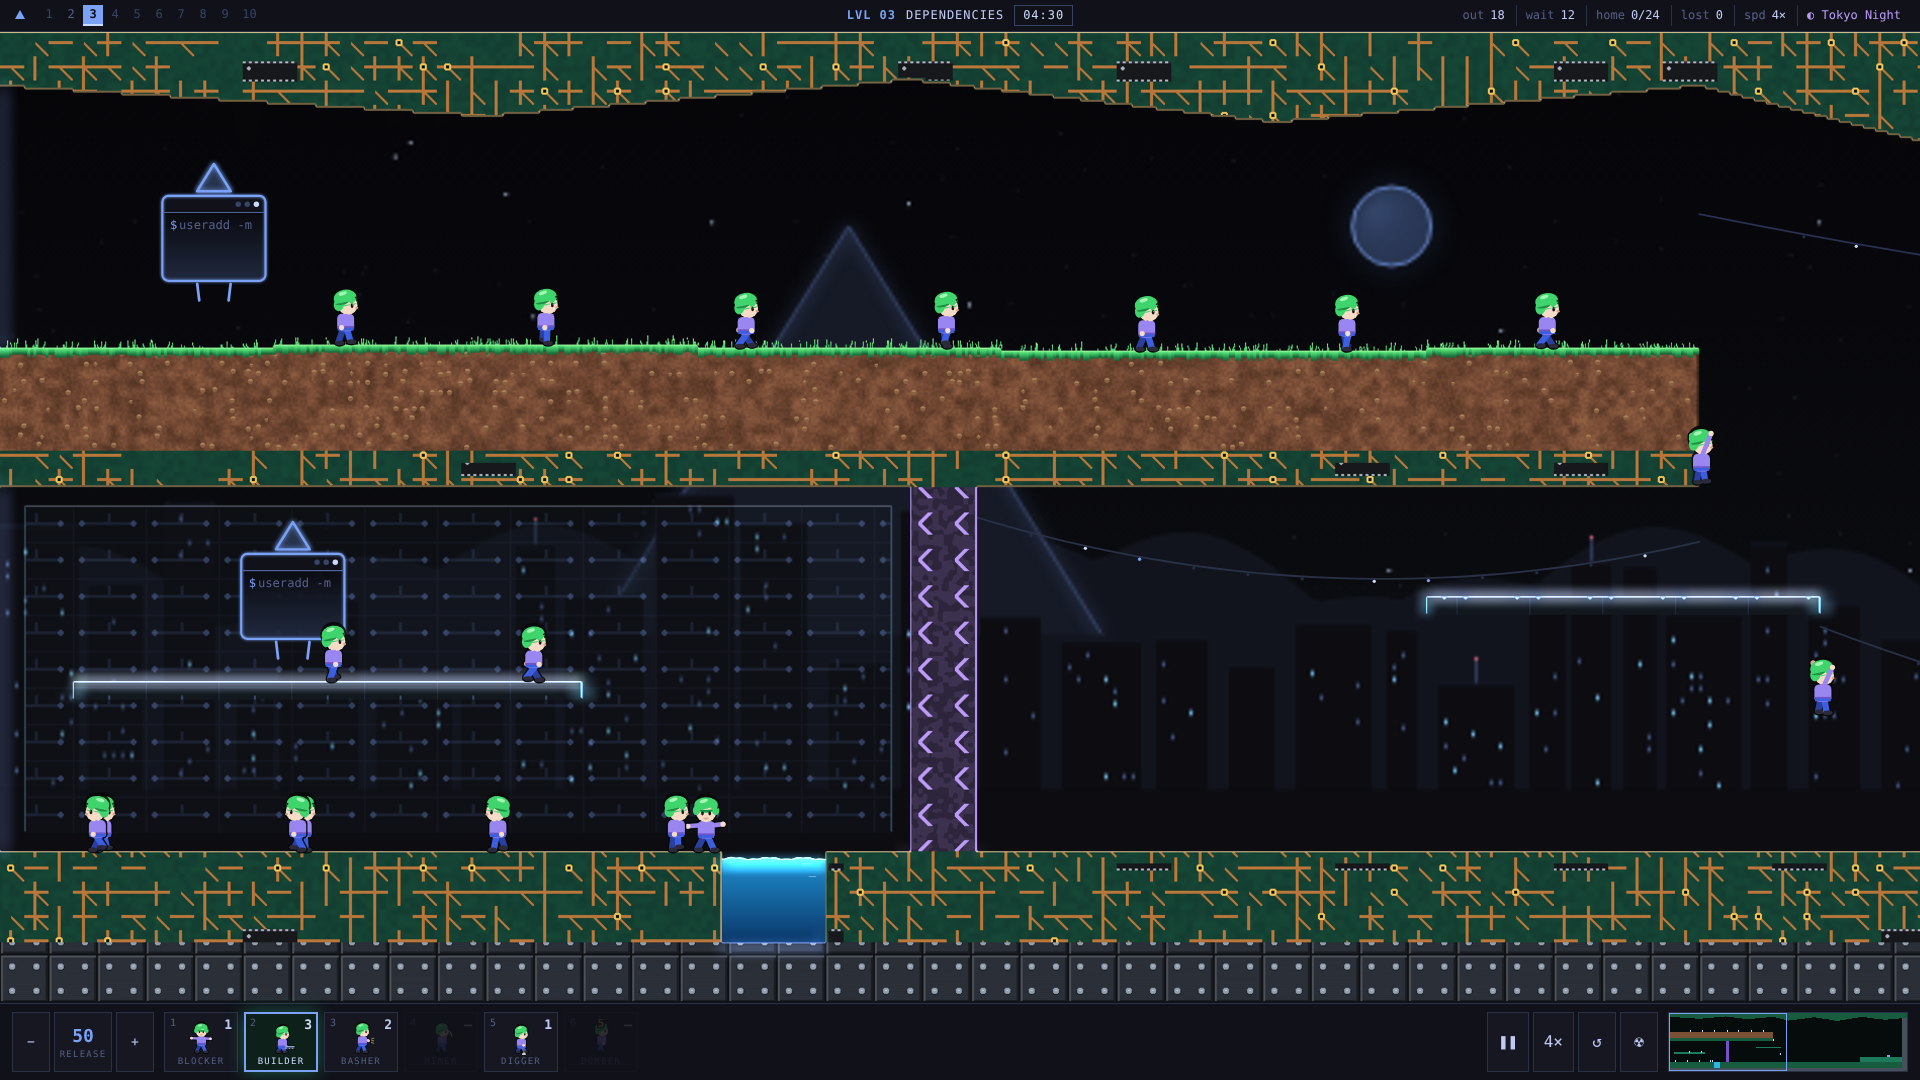
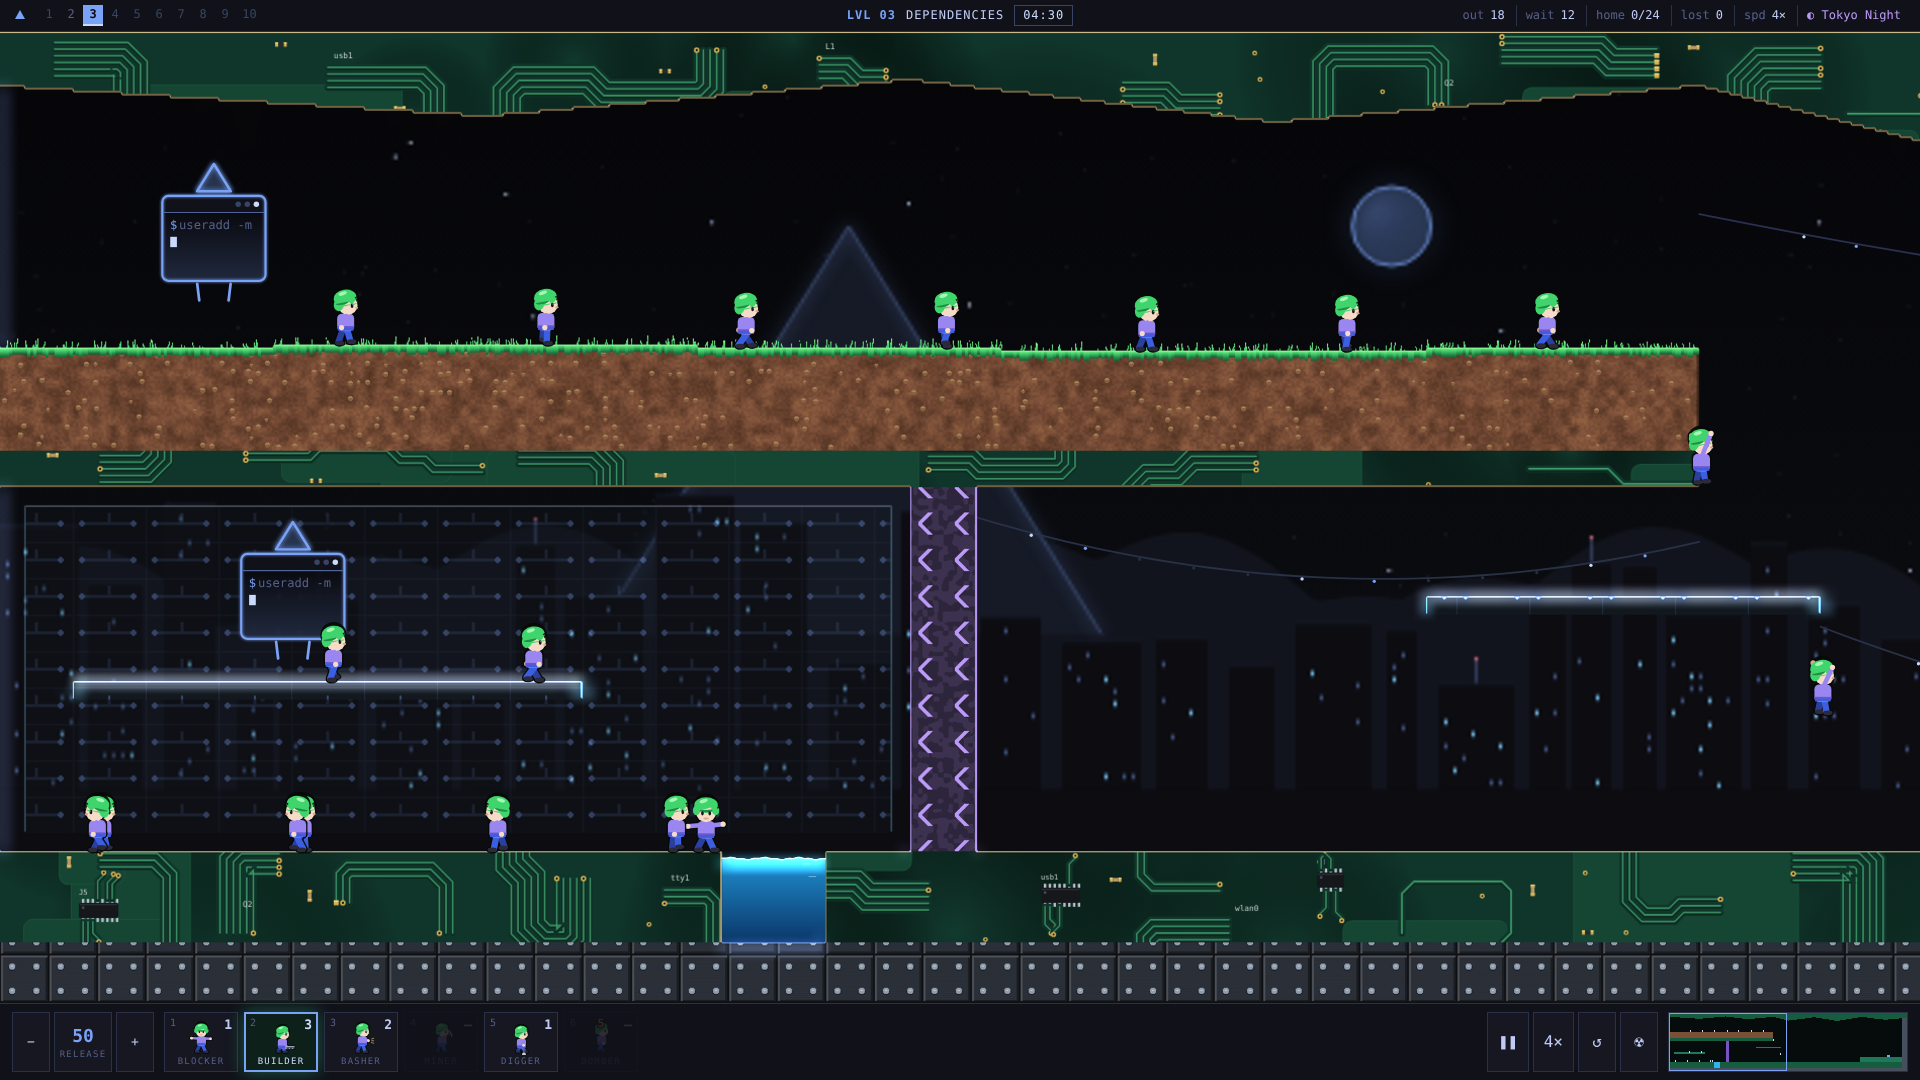
Redraw breakable rock as a routed circuit board
Buses of parallel traces with 45-degree bends, copper pour with clearance,
chips with fan-out, gold vias and pads, passives and silkscreen labels.
Generated once per level (js/gfx/board.js) and sampled by the terrain renderer.

Claude-Session: https://claude.ai/code/session_012AFs84dzLvUPsB991GyuNY

diff --git a/js/gfx/board.js b/js/gfx/board.js
@@ -1,0 +1,206 @@
+/* Omarchy Lemmings — circuit-board artwork for breakable "rock".
+
+   Instead of per-pixel noise, the board is *routed* once per level, like a
+   real PCB, and the terrain renderer samples it wherever there is rock:
+     - parallel buses of traces with 45° chamfered bends and jogs,
+     - traces a lighter green under the solder mask (as on real boards),
+     - gold pads and vias where traces end,
+     - chips (SOIC / QFP) with silver pins and fan-out traces,
+     - small passives and white silkscreen labels (eth0, tty1, /dev/sda…).
+   Everything is deterministic for a given level. */
+"use strict";
+var OL = globalThis.OL || (globalThis.OL = {});
+
+(function () {
+  const M = OL.M;
+  const DIRS = [[1, 0], [1, 1], [0, 1], [-1, 1], [-1, 0], [-1, -1], [0, -1], [1, -1]];   // 8 headings, 45° apart
+  const LABELS = ["eth0", "tty1", "sda1", "U1", "U7", "R12", "C3", "/dev/sda", "wlan0", "gpio", "i2c-1", "nvme0", "lo", "kvm", "usb1", "pci0", "D4", "Q2", "L1", "J5"];
+
+  function rng(seed) {                                 // mulberry32
+    let a = seed >>> 0;
+    return () => { a |= 0; a = (a + 0x6d2b79f5) | 0; let t = Math.imul(a ^ (a >>> 15), 1 | a); t = (t + Math.imul(t ^ (t >>> 7), 61 | t)) ^ t; return ((t ^ (t >>> 14)) >>> 0) / 4294967296; };
+  }
+
+  function buildBoard(doc, terrain, S, T) {
+    const W = terrain.w, H = terrain.h, m = terrain.m;
+    const cv = doc.createElement("canvas");
+    cv.width = W * S; cv.height = H * S;
+    const g = cv.getContext("2d");
+    g.scale(S, S);
+    const R = rng(W * 7919 + H * 104729 + 17);
+    const isRock = (x, y) => x >= 0 && y >= 0 && x < W && y < H && m[(y | 0) * W + (x | 0)] === M.ROCK;
+    const mix = OL.mix;
+    const COL = {
+      mask: mix("#0d3f2d", T.bg, 0.25),
+      mask2: mix("#104a35", T.bg, 0.25),
+      trace: mix("#2b8a58", T.bg, 0.15),
+      traceHi: mix("#58c28a", T.bg, 0.1),
+      traceLo: mix("#08261b", T.bg, 0.2),
+      gold: "#d8b04f", goldHi: "#f3d98a", hole: "#0a1410",
+      chip: "#15171b", chipHi: "#2a2e35", pin: "#b9c2cc",
+      silk: "rgba(225,235,228,0.82)",
+    };
+
+    /* solder mask with soft large-scale variation */
+    g.fillStyle = COL.mask; g.fillRect(0, 0, W, H);
+    for (let i = 0; i < (W * H) / 6000; i++) {
+      const x = R() * W, y = R() * H, r = 20 + R() * 60;
+      const rg = g.createRadialGradient(x, y, 0, x, y, r);
+      rg.addColorStop(0, mix(COL.mask2, "#000000", R() * 0.1)); rg.addColorStop(1, "rgba(0,0,0,0)");
+      g.fillStyle = rg; g.fillRect(x - r, y - r, r * 2, r * 2);
+    }
+
+    /* copper pour: lighter islands of ground plane */
+    for (let i = 0; i < (W * H) / 4000; i++) {
+      const x = R() * W, y = R() * H, w = 20 + R() * 70, h = 10 + R() * 40;
+      g.fillStyle = mix(COL.mask, COL.trace, 0.22);
+      g.beginPath(); g.roundRect(x, y, w, h, 3); g.fill();
+      g.strokeStyle = mix(COL.mask, COL.trace, 0.4); g.lineWidth = 0.35;
+      g.beginPath(); g.roundRect(x, y, w, h, 3); g.stroke();
+    }
+
+    /* occupancy on a 3 px grid so buses don't cross */
+    const GS = 3, GW = Math.ceil(W / GS), GH = Math.ceil(H / GS);
+    const occ = new Uint8Array(GW * GH);
+    const cellsFree = (pts, pad) => {
+      for (const [x, y] of pts) {
+        for (let dy = -pad; dy <= pad; dy += GS) for (let dx = -pad; dx <= pad; dx += GS) {
+          const cx = Math.floor((x + dx) / GS), cy = Math.floor((y + dy) / GS);
+          if (cx < 0 || cy < 0 || cx >= GW || cy >= GH || occ[cy * GW + cx]) return false;
+        }
+      }
+      return true;
+    };
+    const claim = (pts, pad) => {
+      for (const [x, y] of pts) for (let dy = -pad; dy <= pad; dy += GS) for (let dx = -pad; dx <= pad; dx += GS) {
+        const cx = Math.floor((x + dx) / GS), cy = Math.floor((y + dy) / GS);
+        if (cx >= 0 && cy >= 0 && cx < GW && cy < GH) occ[cy * GW + cx] = 1;
+      }
+    };
+    const rockFrac = (pts) => { let n = 0; for (const [x, y] of pts) if (isRock(x, y)) n++; return n / Math.max(1, pts.length); };
+    const sample = (poly) => {                       // points every ~1.5 px along a polyline
+      const out = [];
+      for (let i = 0; i + 1 < poly.length; i++) {
+        const [ax, ay] = poly[i], [bx, by] = poly[i + 1];
+        const n = Math.max(1, Math.ceil(Math.hypot(bx - ax, by - ay) / 1.5));
+        for (let k = 0; k <= n; k++) out.push([ax + ((bx - ax) * k) / n, ay + ((by - ay) * k) / n]);
+      }
+      return out;
+    };
+    /* offset a polyline sideways with mitred corners */
+    const offset = (poly, d) => poly.map((p, i) => {
+      const a = poly[Math.max(0, i - 1)], b = poly[Math.min(poly.length - 1, i + 1)];
+      const n1 = i > 0 ? norm(poly[i - 1], p) : norm(p, b), n2 = i < poly.length - 1 ? norm(p, b) : n1;
+      let nx = n1[0] + n2[0], ny = n1[1] + n2[1]; const l = Math.hypot(nx, ny) || 1; nx /= l; ny /= l;
+      const cos = nx * n1[0] + ny * n1[1] || 1;
+      void a;
+      return [p[0] + (nx * d) / cos, p[1] + (ny * d) / cos];
+    });
+    function norm(a, b) { const dx = b[0] - a[0], dy = b[1] - a[1], l = Math.hypot(dx, dy) || 1; return [-dy / l, dx / l]; }
+
+    const drawTrace = (poly, w) => {
+      g.lineJoin = "miter"; g.lineCap = "round";
+      g.strokeStyle = COL.mask; g.lineWidth = w + 1.6;                       // clearance cut into any copper pour
+      g.beginPath(); poly.forEach((p, i) => (i ? g.lineTo(p[0], p[1]) : g.moveTo(p[0], p[1]))); g.stroke();
+      g.strokeStyle = COL.traceLo; g.lineWidth = w + 0.5;
+      g.beginPath(); poly.forEach((p, i) => (i ? g.lineTo(p[0], p[1] + 0.25) : g.moveTo(p[0], p[1] + 0.25))); g.stroke();
+      g.strokeStyle = COL.trace; g.lineWidth = w;
+      g.beginPath(); poly.forEach((p, i) => (i ? g.lineTo(p[0], p[1]) : g.moveTo(p[0], p[1]))); g.stroke();
+      g.strokeStyle = COL.traceHi; g.lineWidth = w * 0.3;
+      g.beginPath(); poly.forEach((p, i) => (i ? g.lineTo(p[0], p[1] - w * 0.2) : g.moveTo(p[0], p[1] - w * 0.2))); g.stroke();
+    };
+    const via = (x, y, r) => {
+      g.fillStyle = COL.gold; g.beginPath(); g.arc(x, y, r, 0, Math.PI * 2); g.fill();
+      g.fillStyle = COL.goldHi; g.beginPath(); g.arc(x - r * 0.25, y - r * 0.25, r * 0.35, 0, Math.PI * 2); g.fill();
+      g.fillStyle = COL.hole; g.beginPath(); g.arc(x, y, r * 0.42, 0, Math.PI * 2); g.fill();
+    };
+    const pad = (x, y, w, h) => { g.fillStyle = COL.gold; g.fillRect(x - w / 2, y - h / 2, w, h); g.fillStyle = COL.goldHi; g.fillRect(x - w / 2, y - h / 2, w, h * 0.3); };
+    const silk = (txt, x, y, size) => { g.fillStyle = COL.silk; g.font = `${size || 2.6}px ui-monospace, monospace`; g.textBaseline = "middle"; g.fillText(txt, x, y); };
+
+    /* ---- chips first (they anchor the routing) ---- */
+    const chips = [];
+    for (let i = 0; i < (W * H) / 2600; i++) {
+      const qfp = R() < 0.35;
+      const cw = qfp ? 10 : 9 + Math.floor(R() * 3) * 2, ch = qfp ? 10 : 5;
+      const x = Math.round(R() * (W - cw - 16)) + 8, y = Math.round(R() * (H - ch - 16)) + 8;
+      const box = [];
+      for (let yy = y - 7; yy <= y + ch + 7; yy += 2) for (let xx = x - 7; xx <= x + cw + 7; xx += 2) box.push([xx, yy]);
+      if (!cellsFree(box, 0) || rockFrac(box) < 1) continue;
+      claim(box, 0);
+      chips.push({ x, y, cw, ch, qfp });
+      // pins
+      g.fillStyle = COL.pin;
+      for (let px = x + 1; px < x + cw - 0.5; px += 1.6) { g.fillRect(px, y - 1.3, 0.8, 1.4); g.fillRect(px, y + ch - 0.1, 0.8, 1.4); }
+      if (qfp) for (let py = y + 1; py < y + ch - 0.5; py += 1.6) { g.fillRect(x - 1.3, py, 1.4, 0.8); g.fillRect(x + cw - 0.1, py, 1.4, 0.8); }
+      // body
+      g.fillStyle = COL.chip; g.beginPath(); g.roundRect(x, y, cw, ch, 0.6); g.fill();
+      g.fillStyle = COL.chipHi; g.fillRect(x + 0.3, y + 0.3, cw - 0.6, 0.5);
+      g.fillStyle = "#4a5058"; g.beginPath(); g.arc(x + 1.4, y + 1.6, 0.45, 0, Math.PI * 2); g.fill();
+      silk(LABELS[Math.floor(R() * LABELS.length)], x, y - 3.4, 2.4);
+      // fan-out traces from the long sides
+      for (let px = x + 1.4; px < x + cw - 0.5; px += 1.6 * (1 + Math.floor(R() * 2))) {
+        const up = R() < 0.5, y0 = up ? y - 1.3 : y + ch + 1.3, dy = up ? -1 : 1;
+        const len = 3 + R() * 4, jog = (R() < 0.5 ? -1 : 1) * 2;
+        const poly = [[px, y0], [px, y0 + dy * len], [px + jog, y0 + dy * (len + 2)]];
+        drawTrace(poly, 0.55);
+        via(poly[2][0], poly[2][1] + dy * 0.8, 0.85);
+      }
+    }
+
+    /* ---- buses: parallel traces with chamfered bends ---- */
+    const tries = (W * H) / 30;
+    for (let i = 0; i < tries; i++) {
+      const x0 = Math.round(R() * W / GS) * GS, y0 = Math.round(R() * H / GS) * GS;
+      if (!isRock(x0, y0)) continue;
+      const k = R() < 0.2 ? 1 : 2 + Math.floor(R() * 6);           // traces in this bus
+      const sp = 2.2, tw = k === 1 ? 0.8 : 0.6;
+      let h = Math.floor(R() * 4) * 2;                                  // start orthogonal
+      const poly = [[x0, y0]];
+      let x = x0, y = y0;
+      const segs = 2 + Math.floor(R() * 4);
+      for (let s = 0; s < segs; s++) {
+        const len = 8 + Math.floor(R() * 26);
+        x += DIRS[h][0] * len; y += DIRS[h][1] * len; poly.push([x, y]);
+        if (s === segs - 1) break;
+        const turn = R() < 0.5 ? 1 : -1;
+        h = (h + turn + 8) % 8;                                         // 45° chamfer
+        const dl = 2 + Math.floor(R() * 4);
+        x += DIRS[h][0] * dl; y += DIRS[h][1] * dl; poly.push([x, y]);
+        h = (h + (R() < 0.7 ? turn : -turn) + 8) % 8;                   // finish the 90° turn, or jog back
+        if (h % 2) h = (h + turn + 8) % 8;
+      }
+      const half = ((k - 1) * sp) / 2 + 1.5;
+      const pts = sample(poly);
+      if (rockFrac(pts) < 0.6 || !cellsFree(pts, Math.ceil(half))) continue;
+      claim(pts, Math.ceil(half));
+      for (let t = 0; t < k; t++) {
+        const off = offset(poly, -half + 1.5 + t * sp);
+        drawTrace(off, tw);
+        const end = off[off.length - 1], start = off[0];
+        const e1 = R(), e2 = R();
+        if (e1 < 0.55) via(end[0], end[1], 0.9); else if (e1 < 0.8) pad(end[0], end[1], 1.6, 1.6);
+        if (e2 < 0.3) via(start[0], start[1], 0.9);
+      }
+      if (k >= 3 && R() < 0.35) silk(LABELS[Math.floor(R() * LABELS.length)], poly[0][0] + 2, poly[0][1] - half - 2.2);
+    }
+
+    /* ---- a sprinkle of passives and lone vias ---- */
+    for (let i = 0; i < (W * H) / 700; i++) {
+      const x = R() * W, y = R() * H;
+      const box = [[x - 3, y - 2], [x + 3, y + 2], [x, y]];
+      if (!cellsFree(box, 0) || !isRock(x, y)) continue;
+      claim(box, 0);
+      if (R() < 0.5) via(x, y, 0.8);
+      else {
+        const vert = R() < 0.4;
+        if (vert) { pad(x, y - 1.4, 1.4, 1); pad(x, y + 1.4, 1.4, 1); g.fillStyle = R() < 0.5 ? "#2a2a2e" : "#b59a6a"; g.fillRect(x - 0.6, y - 0.9, 1.2, 1.8); }
+        else { pad(x - 1.4, y, 1, 1.4); pad(x + 1.4, y, 1, 1.4); g.fillStyle = R() < 0.5 ? "#2a2a2e" : "#b59a6a"; g.fillRect(x - 0.9, y - 0.6, 1.8, 1.2); }
+      }
+    }
+
+    const data = g.getImageData(0, 0, cv.width, cv.height).data;
+    return { data, w: cv.width, h: cv.height };
+  }
+
+  OL.buildBoard = buildBoard;
+})();

diff --git a/js/gfx/terrain-render.js b/js/gfx/terrain-render.js
@@ -108,6 +108,7 @@ var OL = globalThis.OL || (globalThis.OL = {});
         }
       }
       this.fluids = [];
+      this.board = OL.buildBoard(doc, terrain, S, OL.T);
       this.renderRect(0, 0, W - 1, H - 1);
       this.collectFluids();
     }
@@ -267,26 +268,10 @@ var OL = globalThis.OL || (globalThis.OL = {});
           return false;
         }
         case M.ROCK: {
-          /* circuit board */
-          const lx = fx - Math.floor(fx / 8) * 8, ly = fy - Math.floor(fy / 8) * 8, hc = hash(Math.floor(fx / 8), Math.floor(fy / 8));
-          let c = lerp3(C.board, C.board2, vnoise(fx * 0.5, fy * 0.5) * 0.8);
-          const tw = 0.42;
-          if ((hc & 1) && Math.abs(ly - 3.5) < tw) c = C.copper;
-          if ((hc & 2) && Math.abs(lx - 3.5) < tw) c = C.copper;
-          if ((hc & 4) && Math.abs(ly - lx) < tw * 1.2 && lx > 3.5) c = C.copper;      // a few 45° traces
-          if ((hc & 28) === 28) {
-            const r = Math.hypot(lx - 3.5, ly - 3.5);
-            if (r < 1.25) c = r < 0.5 ? C.viaHole : C.gold;
-          }
-          const kx = Math.floor(fx / 36), ky = Math.floor(fy / 26);
-          if (hash(kx, ky + 77) % 4 === 0 && depth > 4 && !edge) {
-            const cxl = fx - kx * 36, cyl = fy - ky * 26;
-            if (cxl > 8 && cxl < 26 && cyl > 9.5 && cyl < 16.5) {
-              c = cyl < 10.4 ? C.chipHi : C.chip;
-              if ((cyl < 10.2 || cyl > 15.8) && (cxl % 2) < 0.9) c = C.pin;
-              if (Math.hypot(cxl - 10, cyl - 12) < 0.6) c = C.pin;
-            }
-          }
+          /* circuit board: sampled from the routed board artwork (js/gfx/board.js) */
+          const bd = this.board, S = this.S;
+          const ix = Math.min(bd.w - 1, Math.floor(fx * S)), iy = Math.min(bd.h - 1, Math.floor(fy * S)), bk = (iy * bd.w + ix) * 4;
+          let c = [bd.data[bk], bd.data[bk + 1], bd.data[bk + 2]];
           if (edge && dist < 0.95) c = top ? C.fibreHi : bottom ? C.fibreLo : C.fibre;
           if (above === M.WATER && depth <= 2) c = C.silt;
           if (above === M.LAVA && depth <= 2) c = C.scorch;

diff --git a/index.html b/index.html
@@ -52,6 +52,7 @@
   <script src="js/gfx/palette.js"></script>
   <script src="js/gfx/theme.js"></script>
   <script src="js/gfx/lemming.js"></script>
+  <script src="js/gfx/board.js"></script>
   <script src="js/gfx/terrain-render.js"></script>
   <script src="js/gfx/scenery.js"></script>
   <script src="js/gfx/renderer.js"></script>

diff --git a/docs/ENGINE.md b/docs/ENGINE.md
@@ -11,6 +11,7 @@ js/core/levels.js     level / solution registry                      (DOM-free)
 js/gfx/palette.js     lemming colours
 js/gfx/theme.js       theme palettes (UI + neon linework + scenery + backdrop)
 js/gfx/lemming.js     vector lemmings (pose-based, smooth at any zoom)
+js/gfx/board.js       routed circuit-board artwork for breakable rock (buses, chips, vias, silkscreen)
 js/gfx/terrain-render.js  hi-res terrain (anti-aliased edges, sub-pixel textures), live fluids, glow
 js/gfx/scenery.js     vector hatch, gate, mark, mechanisms; parallax backdrop
 js/gfx/renderer.js    camera, smooth zoom, particles, skill preview, minimap, debug overlays
@@ -44,7 +45,7 @@ Physics stays on the 1-pixel material map; the picture does not.
 | id | name | solid | breakable | notes |
 |---|---|---|---|---|
 | dirt | grassy soil | ✓ | ✓ | grass is drawn on exposed tops |
-| rock | circuit board (copper traces, vias, chips; tan fibreglass where cut) | ✓ | ✓ | same rules as dirt |
+| rock | circuit board: routed buses with 45° bends, copper pour, chips, gold vias, silkscreen labels; tan fibreglass where cut | ✓ | ✓ | same rules as dirt |
 | metal | system plating | ✓ | ✗ | neon top edges |
 | tech | Omarchy architecture | ✓ | ✗ | circuit panels |
 | brick | builder steps (drawn as circuit-board planks) | ✓ | ✓ | |
